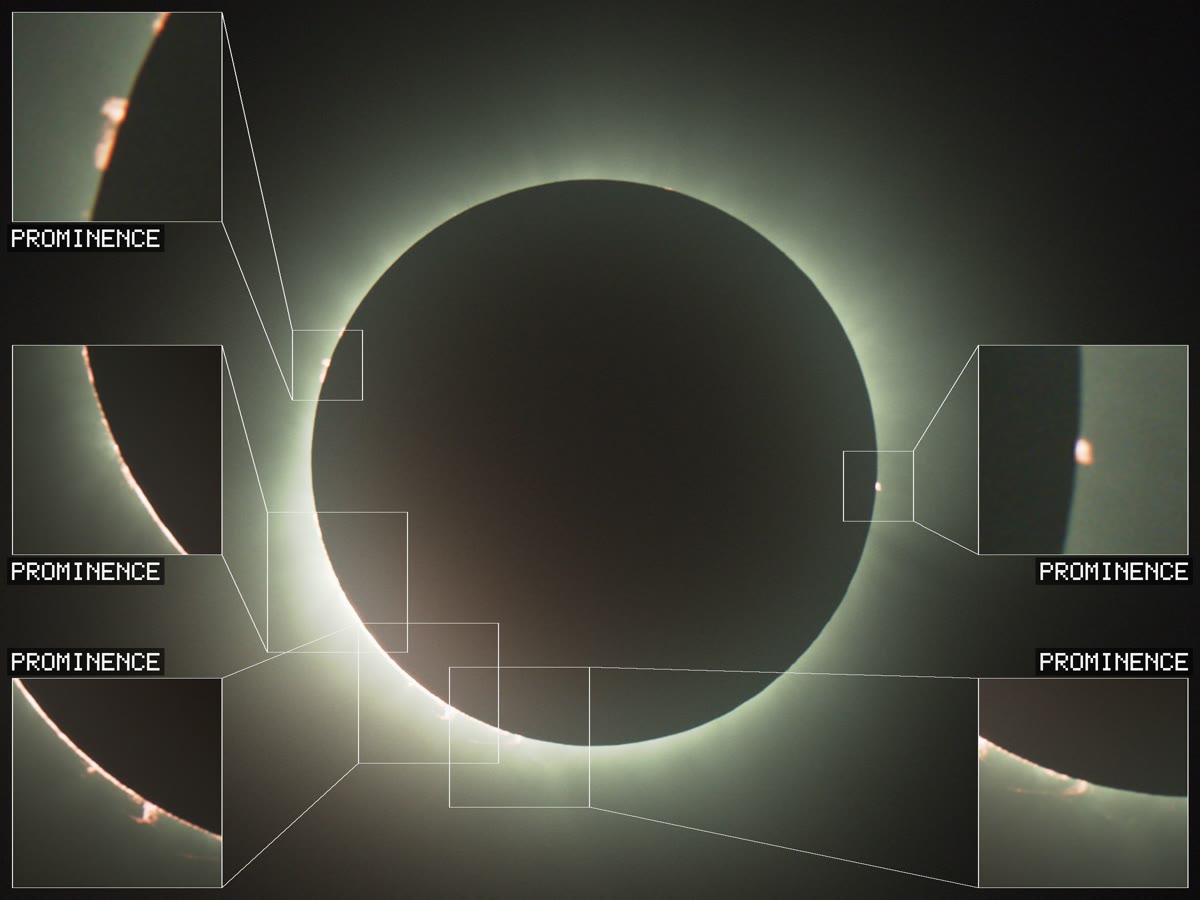
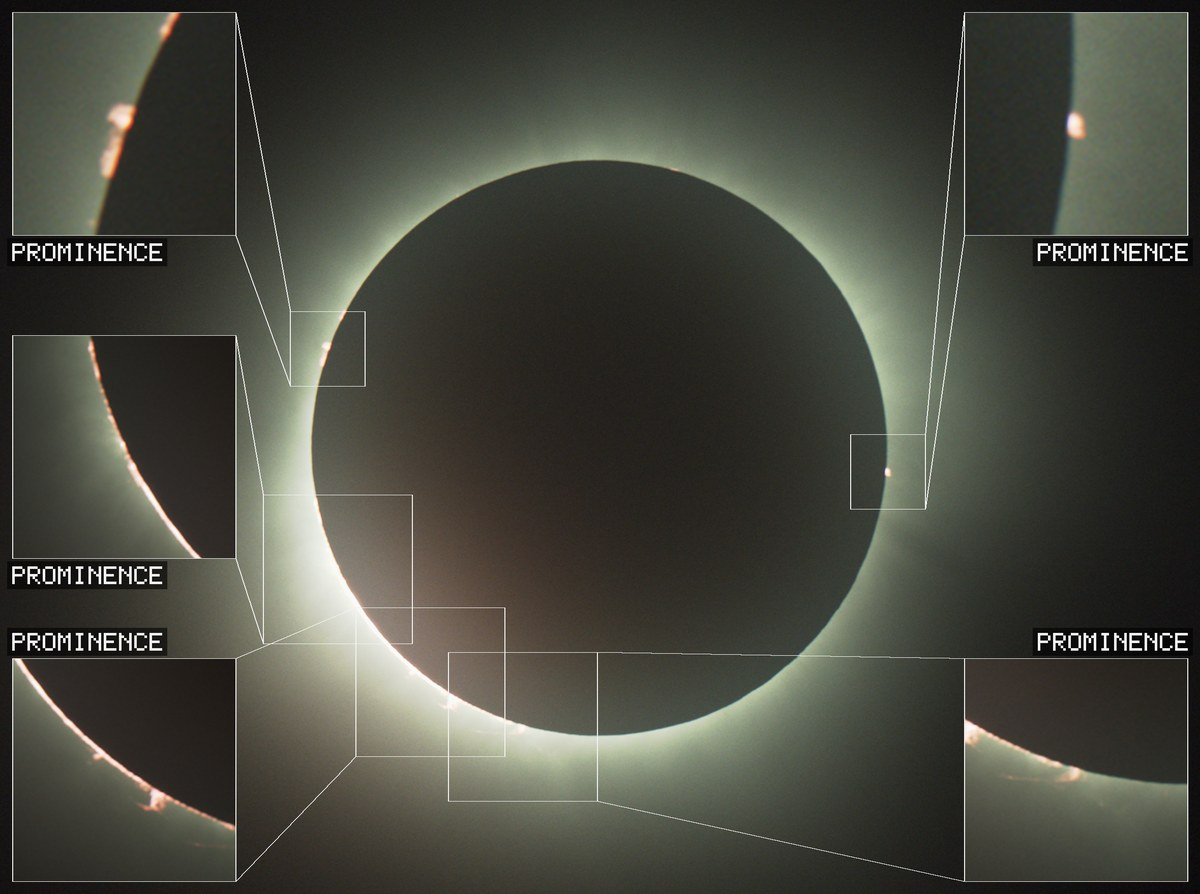
Rebuild the README media from the one-command run
Every image on the page now comes from an unmodified `python -m ecl.run` over
the 2024-04-08 data, so the README shows what the code does rather than what a
hand-graded run did. The previous set came from the published cut: a 1200x900
window chosen with --window --drop-padded --require-disc, and panels at the
hardcoded 420 px that predates panels.size_frac being wired up.

  preview.gif    the re-run's own timelapse.gif, straight out of the encode
                 pass - four segments the picker chose, 1180x880 framing
  totality.jpg   seq 1291 of the re-run, mid-totality, five prominence panels
                 at the 440 px the panel stage computed for that window
  alignment.gif  re-composed from a fresh pair rendered off the re-run config

Text updated to match: 2299 frames and 76.6 s rather than 2228 and 74, an
1180x880 window rather than 1200x900, and a sentence saying plainly that nothing
on the page was placed by hand. The release still carries the hand-graded cut and
the README now says so instead of blurring the two.

The alignment pair was re-rendered at drizzle 1 this time - which is what was
asked for the first time and silently ignored, back when the workers never read
render.drizzle. The GIF's panels are 320 px wide so an 1180 px source is still a
3.7x downsample and nothing is lost, while the pair costs 2.4 GB instead of 15
and 15.6 min per side instead of 27.

Choosing seq 1291 was a judgement call worth naming: the first totality frame I
[…]

diff --git a/README.md b/README.md
@@ -18,18 +18,22 @@ python -m ecl.run "D:\eclipse\data"
 Everything else is surveyed from the data and the machine on startup, written to
 an editable config, and reused from then on.
 
-**The finished video is on the
-[v0.1.0 release](https://github.com/dmead/solar-eclipse-timelapse/releases/tag/v0.1.0)**
-— 2228 frames, 74 s at 30 fps, all 22 captures, in full resolution (108 MB), a
-1080-wide cut and a 2 MB preview. That frame above is one of its frames; nothing
-in it was placed by hand.
+Everything on this page — the frame above, the preview below, and the alignment
+comparison further down — comes from **one unmodified run of the command at the
+top of this README**, on the 2024-04-08 data: 2299 frames, 76.6 s at 30 fps, all
+22 captures. No flags, no hand-tuning, nothing placed by hand. The window,
+the panel size, the segments in the preview and the features every panel follows
+were all chosen by the pipeline from the data.
 
-`timelapse.gif` below is one of the pipeline's own outputs, not a still cut by
-hand: nine seconds assembled from four segments it picked out of the run — the
-crescent at its thinnest, the filter coming off, second contact, and totality.
-Each chapter is located from what the earlier passes marked, so data that is
-totality only gets three chapters over the same budget and nothing is
-special-cased.
+The full-resolution cut of the hand-graded version is on the
+[v0.1.0 release](https://github.com/dmead/solar-eclipse-timelapse/releases/tag/v0.1.0)
+(108 MB, plus a 1080-wide cut and a 2 MB preview).
+
+`timelapse.gif` below is a pipeline output too, not a clip chosen by hand: nine
+seconds assembled from four segments it picked out of the run — the crescent at
+its thinnest, the filter coming off, second contact, and totality. Each chapter
+is located from what the earlier passes marked, so data that is totality only
+gets three chapters over the same budget and nothing is special-cased.
 
 ![Preview: partial phases, the filter coming off, second contact, totality](docs/media/preview.gif)
 
@@ -42,9 +46,9 @@ sequence numbers is the same exposure at the same stack depth.
 
 ![No tracking versus the disc track, the same frames side by side](docs/media/alignment.gif)
 
-Over the 45 minutes the Sun travels **523 × 277 px in a 1200 × 900 window** —
-44% of the frame width, 1.8 solar radii — and at the extremes the disc runs 105
-px past the edge. Almost none of that is the mount losing the Sun: within any
+Over the 45 minutes the Sun travels **523 × 277 px in an 1180 × 880 window** —
+44% of the frame width, 1.8 solar radii — and at the extremes the disc runs past
+the edge. Almost none of that is the mount losing the Sun: within any
 one capture the drift is 20–49 px. It is the boundaries, where the mount was
 nudged by hand between captures, and three of those move the Sun 544, 387 and
 262 px in a single frame.
